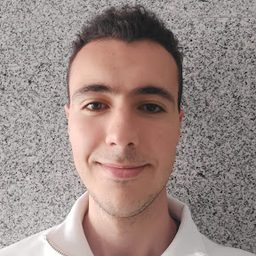
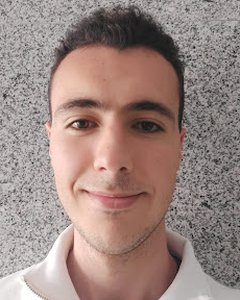
CV per persona a Drive i fotos en retrat sense marc
Cada botó CV obri el PDF de la seua persona; fotos 4:5 amb la cara sencera, cantonades suaus i ombra lleu.

diff --git a/index.html b/index.html
@@ -46,7 +46,7 @@
     <p class="lead"><span data-nom>Mestral</span> és una consultoria ficticia formada per un equip de quatre persones. Cada membre té un rol dins de la consultora. Els CV no es publiquen: els botons enllacen a una carpeta de Drive amb accés restringit a l'equip i a la professora.</p>
     <div class="graella">
       <article class="targeta membre">
-        <img class="foto" src="img/equip/lluis.jpg" alt="Foto de Lluís Durá Navarro" width="96" height="96" loading="lazy">
+        <img class="foto" src="img/equip/lluis.jpg" alt="Foto de Lluís Durá Navarro" width="96" height="120" loading="lazy">
         <div>
           <h3>Lluís Durá Navarro</h3>
           <p>Especialista en selecció d'ERP i dades</p>
@@ -54,7 +54,7 @@
         </div>
       </article>
       <article class="targeta membre">
-        <img class="foto" src="img/equip/alberto.jpg" alt="Foto de Alberto Hernández Marín" width="96" height="96" loading="lazy">
+        <img class="foto" src="img/equip/alberto.jpg" alt="Foto de Alberto Hernández Marín" width="96" height="120" loading="lazy">
         <div>
           <h3>Alberto Hernández Marín</h3>
           <p>Cap de projecte ERP</p>
@@ -62,7 +62,7 @@
         </div>
       </article>
       <article class="targeta membre">
-        <img class="foto" src="img/equip/fran.jpg" alt="Foto de Francisco José García Nebot" width="96" height="96" loading="lazy">
+        <img class="foto" src="img/equip/fran.jpg" alt="Foto de Francisco José García Nebot" width="96" height="120" loading="lazy">
         <div>
           <h3>Francisco José García Nebot</h3>
           <p>Analista de processos i requisits</p>
@@ -70,7 +70,7 @@
         </div>
       </article>
       <article class="targeta membre">
-        <img class="foto" src="img/equip/maria.jpg" alt="Foto de Maria Martínez Gasch" width="96" height="96" loading="lazy">
+        <img class="foto" src="img/equip/maria.jpg" alt="Foto de Maria Martínez Gasch" width="96" height="120" loading="lazy">
         <div>
           <h3>Maria Martínez Gasch</h3>
           <p>Consultora funcional</p>

diff --git a/css/style.css b/css/style.css
@@ -63,11 +63,11 @@ section h2::before { content: counter(seccio, decimal-leading-zero); display: bl
 .graella { display: grid; gap: 2rem 2.5rem; grid-template-columns: 1fr; margin-bottom: 1rem; }
 @media (min-width: 700px) { .graella { grid-template-columns: repeat(2, 1fr); } }
 .targeta { border-top: 2px solid var(--ink); padding: 1rem 0 0; }
-.membre { display: grid; grid-template-columns: 6.4rem 1fr; gap: 1.1rem; align-items: start; }
-.foto { width: 6rem; height: 6rem; object-fit: cover; display: block; border-radius: 50%; background: var(--soft); border: 3px solid var(--blanc); box-shadow: 0 0 0 2px var(--primary); margin: 2px; }
+.membre { display: grid; grid-template-columns: 6rem 1fr; gap: 1.25rem; align-items: start; }
+.foto { width: 6rem; height: 7.5rem; object-fit: cover; object-position: center 15%; display: block; border-radius: 6px; background: var(--soft); box-shadow: 0 6px 18px rgba(10, 31, 68, .18); }
 .membre h3 { margin-bottom: .2rem; font-size: 1.2rem; }
 .membre p { margin-bottom: .9rem; line-height: 1.45; }
-@media (max-width: 380px) { .membre { grid-template-columns: 5rem 1fr; gap: 1rem; } .foto { width: 4.5rem; height: 4.5rem; } }
+@media (max-width: 380px) { .membre { grid-template-columns: 4.8rem 1fr; gap: 1rem; } .foto { width: 4.8rem; height: 6rem; } }
 
 /* Serveis */
 .num { display: inline-grid; place-items: center; flex: none; width: 2.5rem; height: 2.5rem; border-radius: 50%; background: var(--soft); color: var(--ink); font-family: var(--serif); font-weight: 600; font-size: 1.2rem; }

diff --git a/js/main.js b/js/main.js
@@ -3,10 +3,10 @@ const NOM = "Mestral";                 // nom de la consultora (provisional)
 const SUBTITOL = "Consultoria ERP";
 const CV_CARPETA = "https://drive.google.com/drive/folders/16yo0gE1xngANMm3dZndUI8KOeoqEqRpN"; // carpeta de Drive amb tots els CV (s'usa si una persona no té enllaç propi)
 const CV_PERSONES = {                  // enllaç al CV de cada persona; buit = carpeta
-  alberto: "https://drive.google.com/drive/folders/16yo0gE1xngANMm3dZndUI8KOeoqEqRpN",
-  fran:    "https://drive.google.com/drive/folders/16yo0gE1xngANMm3dZndUI8KOeoqEqRpN",
-  lluis:   "https://drive.google.com/drive/folders/16yo0gE1xngANMm3dZndUI8KOeoqEqRpN",
-  maria:   "https://drive.google.com/drive/folders/16yo0gE1xngANMm3dZndUI8KOeoqEqRpN"
+  alberto: "https://drive.google.com/file/d/1mDau6XA0AAevucVWlV9aLbJrwuaqBDru/view?usp=sharing",
+  fran:    "https://drive.google.com/file/d/1JkrPV2lwtznBTC_r-h-7hm2N2YO7iIe9/view?usp=sharing",
+  lluis:   "https://drive.google.com/file/d/1L4Mu0TI-tcb4PnGRWOOoqUeWJRCrZFFj/view?usp=sharing",
+  maria:   "https://drive.google.com/file/d/1sYU8KIjVVwXWvsn17ter6JKQzizNPhN8/view?usp=sharing"
 };
 /* ================================================== */
 
